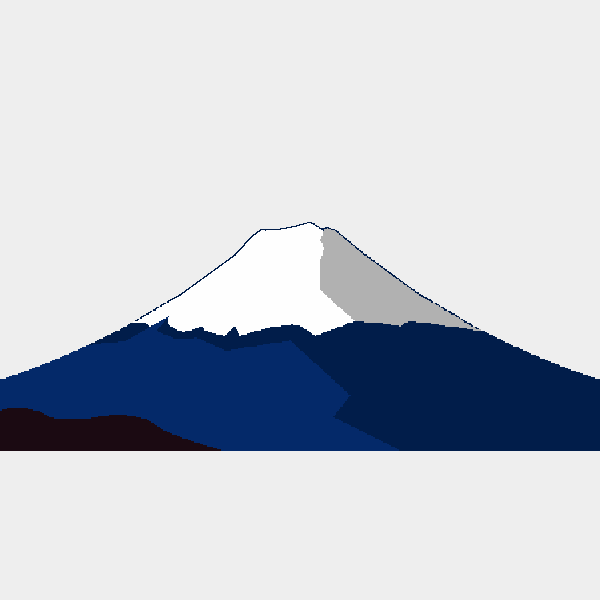
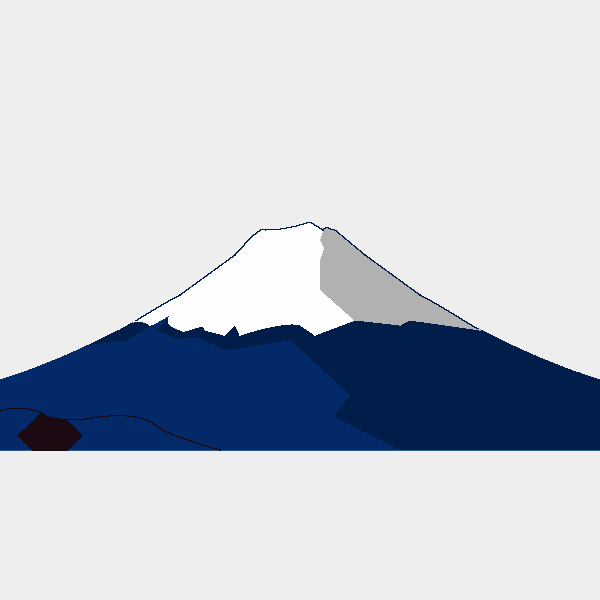
FloodFillBorder

Changed region(s): [[0.12, 0.69, 0.36, 0.75], [0.0, 0.66, 0.06, 0.75]]

diff --git a/NewYear.java b/NewYear.java
@@ -162,7 +162,7 @@ public class NewYear extends JPanel implements MouseListener{
         drawCurve(g, 45, 415, 50, 420, 80, 420, 80, 420);
         drawCurve(g, 80, 420, 130, 410, 150, 420, 155, 425);
         drawCurve(g, 155, 425, 165, 435, 220, 450, 220, 450);
-        floodFill(g, 50, 435, ColorEnum.FUJI.getColor().brighter(), ColorEnum.LAND.getColor());
+        floodFillBorder(g, 50, 435, new Color[]{ColorEnum.LAND.getColor()}, ColorEnum.LAND.getColor());
     }
 
     //==================================================================================
@@ -250,6 +250,42 @@ public class NewYear extends JPanel implements MouseListener{
                 }
             }
         }
+    }
+
+    private void floodFillBorder(Graphics g,int x, int y, Color[] borderColor, Color fillColor) {
+        int[] borderRGB = new int[borderColor.length];
+        for (int i = 0; i < borderRGB.length; i++) {
+            borderRGB[i] = borderColor[i].getRGB();
+        }
+        if (!isIn(canvas.getRGB(x, y), borderRGB)) {
+            Queue<Point> queue = new LinkedList<>();
+            queue.add(new Point(x, y));
+
+            while (!queue.isEmpty()) {
+                Point point = queue.poll();
+                x = (int) point.getX();
+                y = (int) point.getY();
+
+                if (!isIn(canvas.getRGB(x, y), borderRGB)) {
+                    g.setColor(fillColor);
+                    plot(g, x, y);
+
+                    // Enqueue adjacent pixels
+                    if (x - 1 >= 0) queue.add(new Point(x - 1, y));
+                    if (x + 1 < panelWidth) queue.add(new Point(x + 1, y));
+                    if (y - 1 >= 0) queue.add(new Point(x, y - 1));
+                    if (y + 1 < panelHeight) queue.add(new Point(x, y + 1));
+                }
+            }
+        }
+    }
+
+    private boolean isIn(int color, int[] borderColor){
+        for (int i : borderColor) {
+            if(color == i || color == 0)
+                return true;
+        }
+        return false;
     }
 
     private void fillTriangle(Graphics g, int[] x, int[] y){
